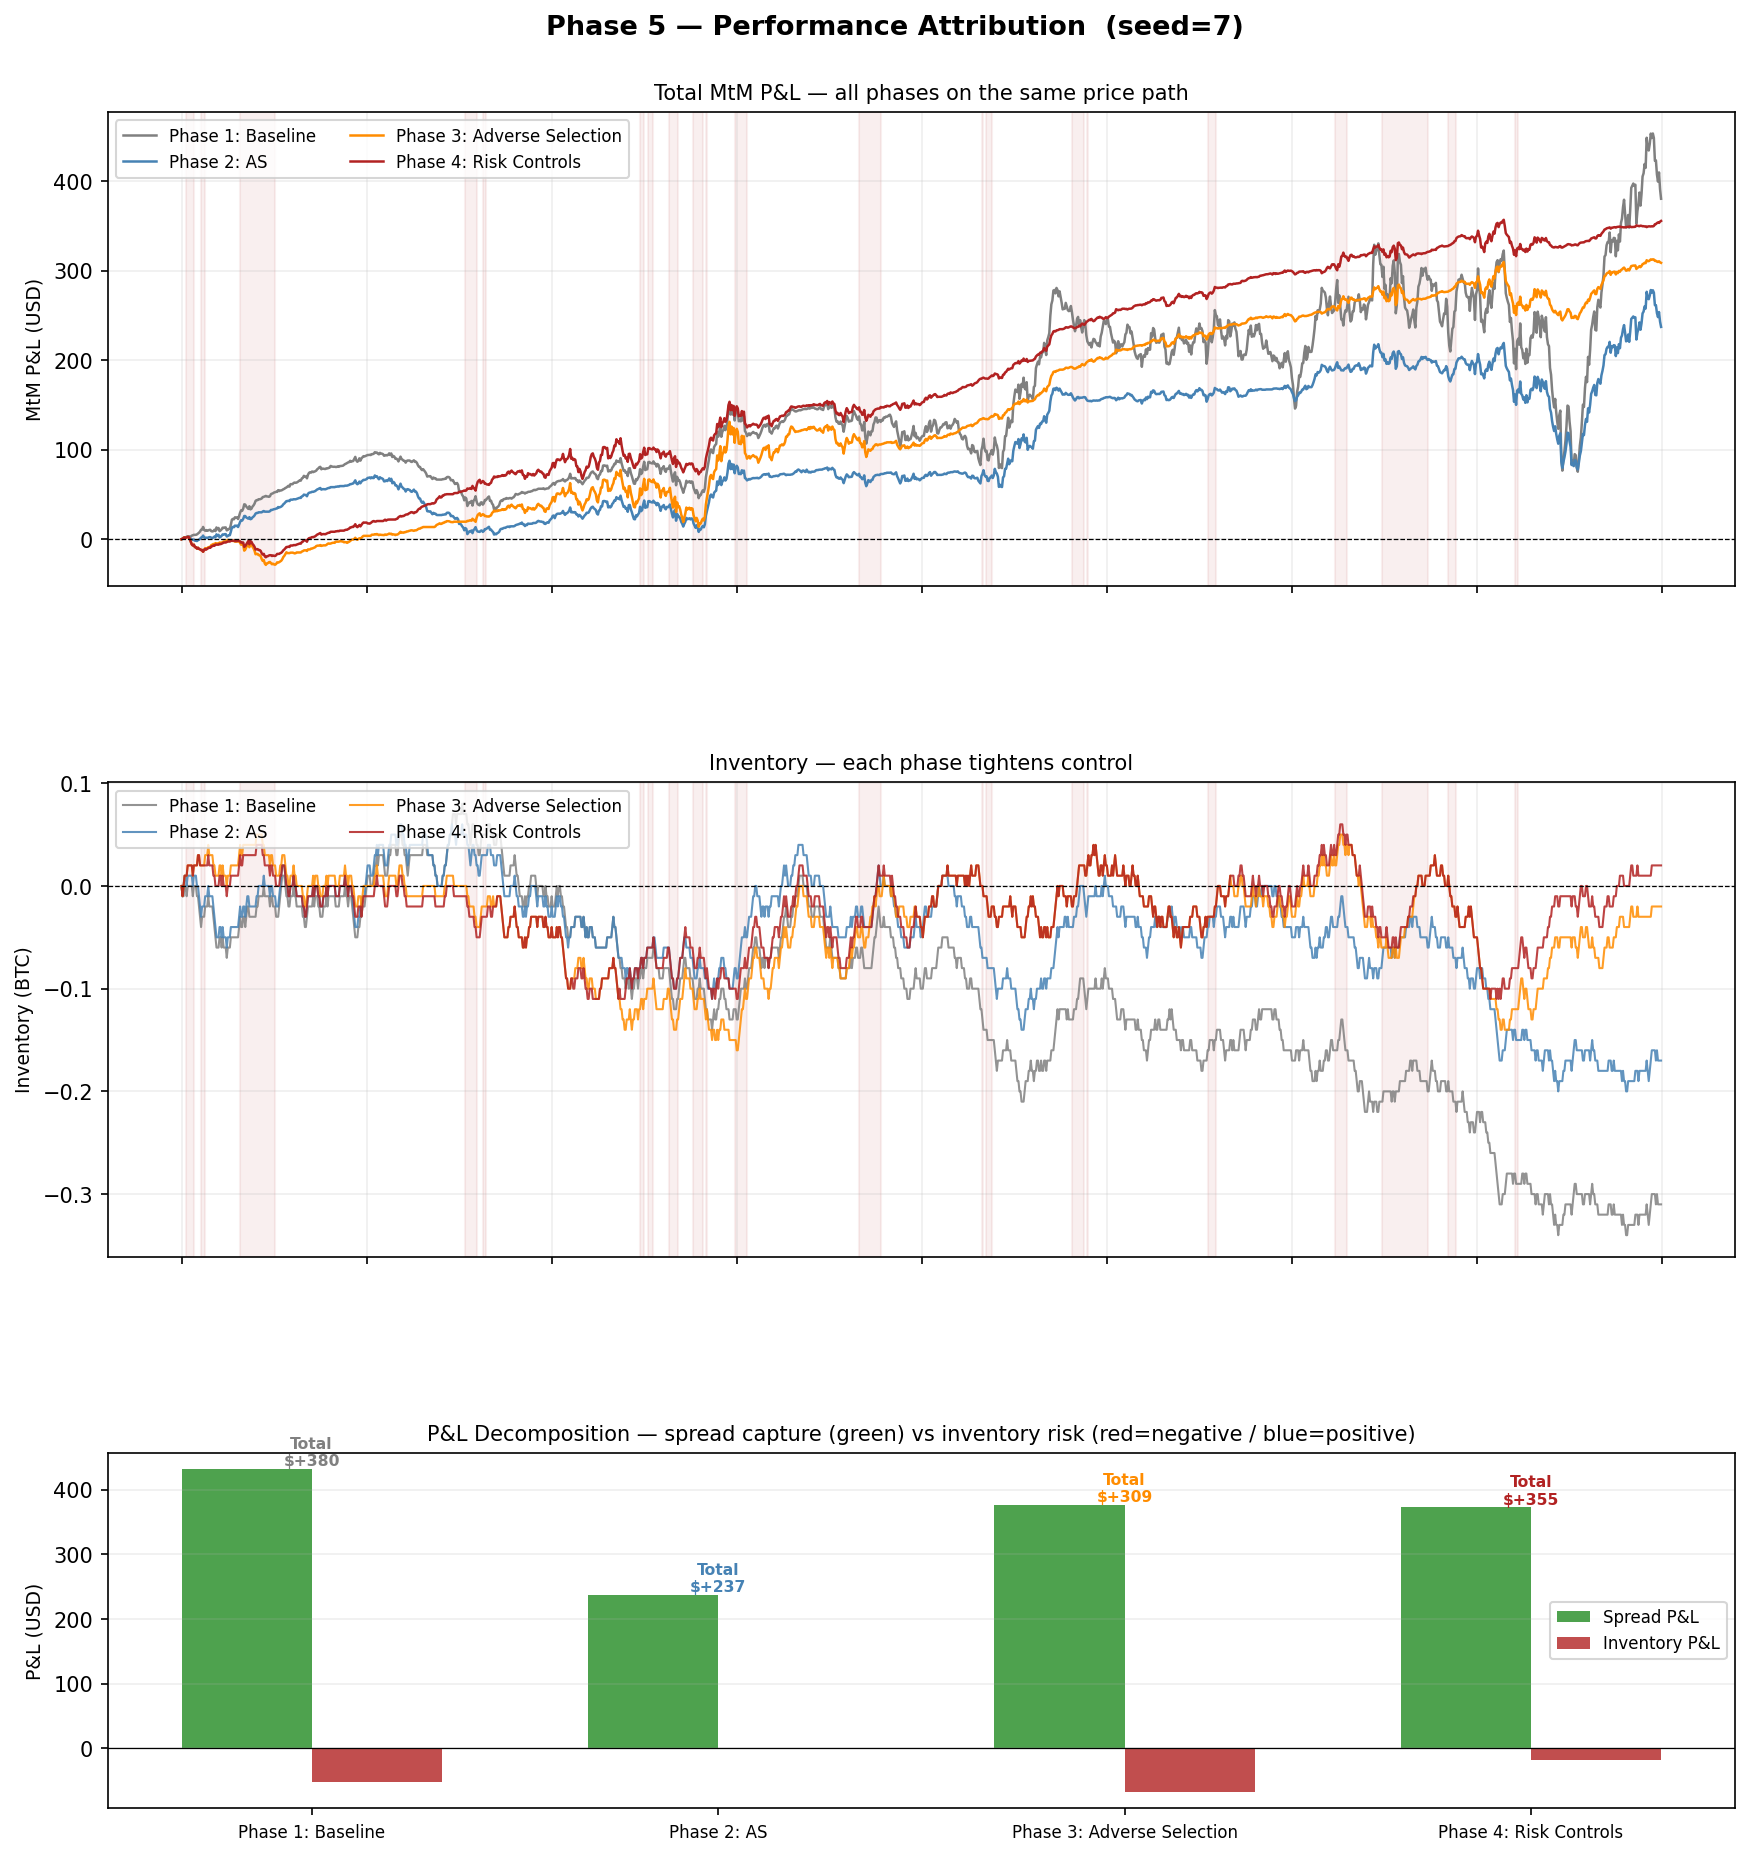
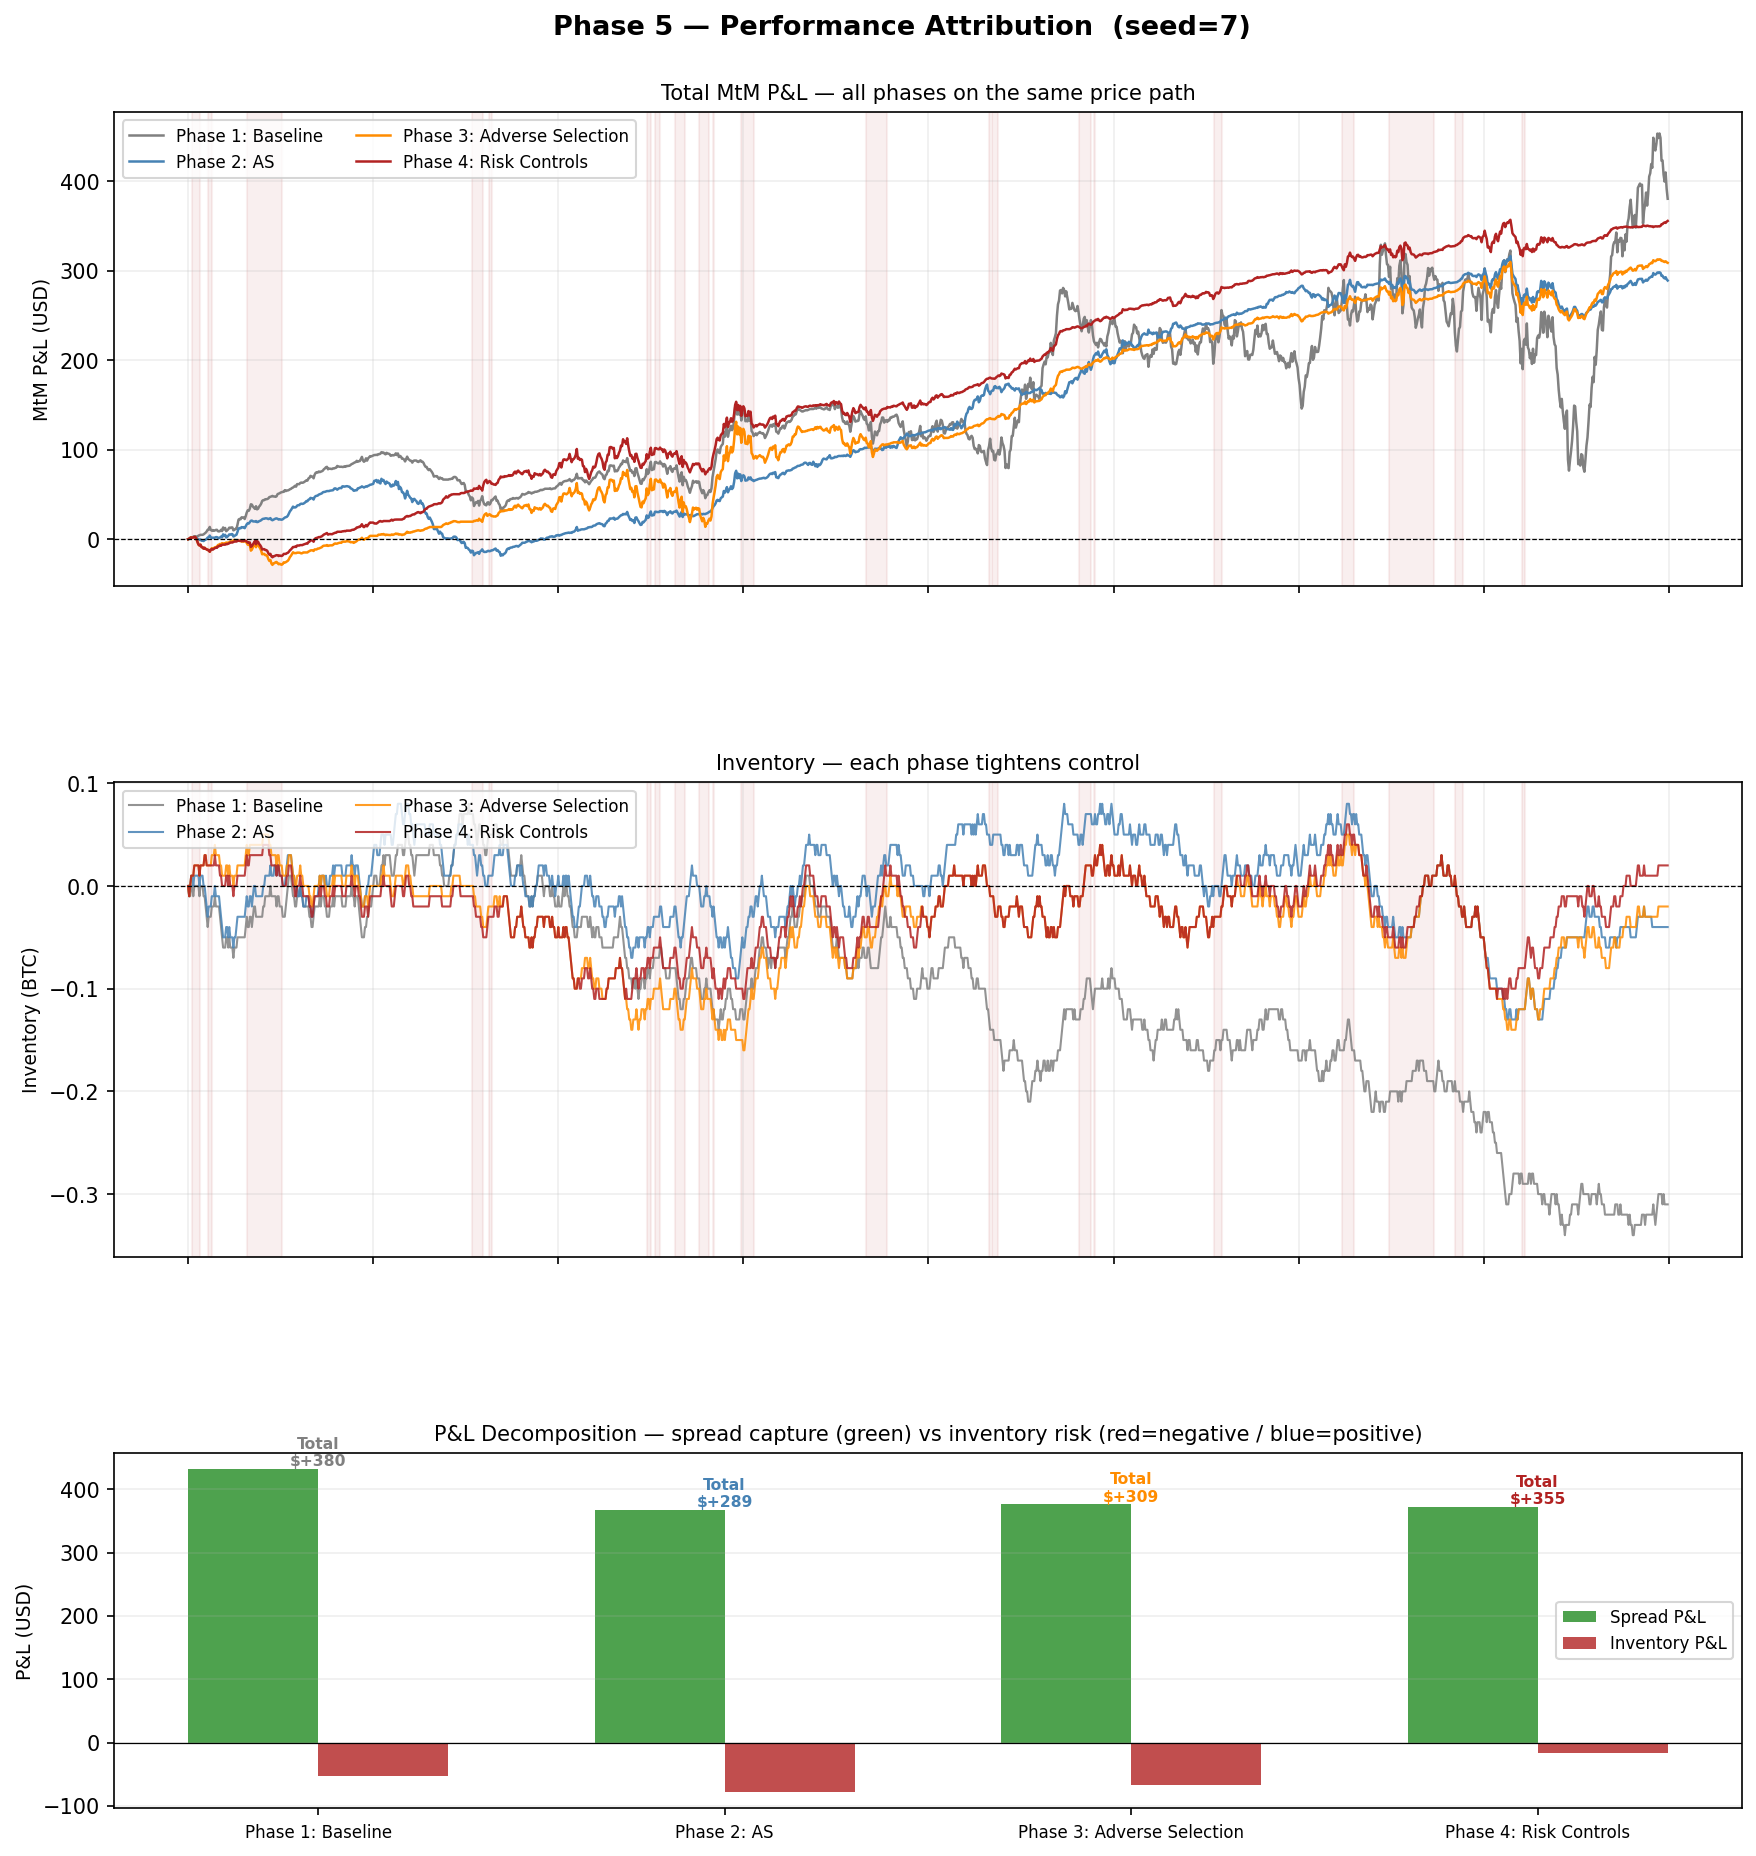
Update Phase 2 results after fill model fix
Regenerate attribution_results.png and README table with corrected
absolute-decay fill model. Phase 2 Spread P&L +$237→+$367, Inv Std
0.056→0.043 BTC. Phase 3/4 numbers unchanged (already used absolute decay).

diff --git a/README.md b/README.md
@@ -39,7 +39,7 @@ This project demonstrates — step by step — how each model improvement addres
 | Model | Spread P&L | Inventory P&L | Total P&L | Max Drawdown | Inv Std Dev |
 |-------|-----------|---------------|-----------|-------------|-------------|
 | Phase 1: Baseline | +$432 | −$52 | +$380 | $0 | 0.100 BTC |
-| Phase 2: AS | +$237 | +$0 | +$237 | −$2 | 0.056 BTC |
+| Phase 2: AS | +$367 | −$79 | +$289 | −$18 | 0.043 BTC |
 | Phase 3: Adverse Selection | +$376 | −$68 | +$309 | −$29 | 0.046 BTC |
 | Phase 4: Risk Controls | +$372 | −$17 | **+$355** | −$20 | **0.036 BTC** |
 